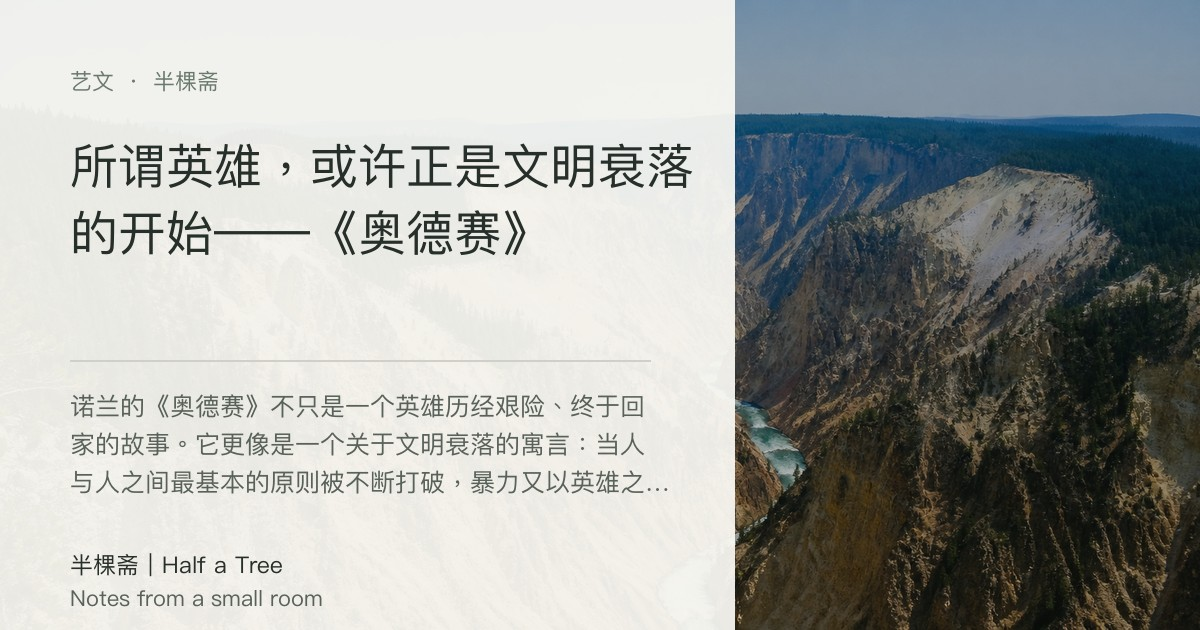
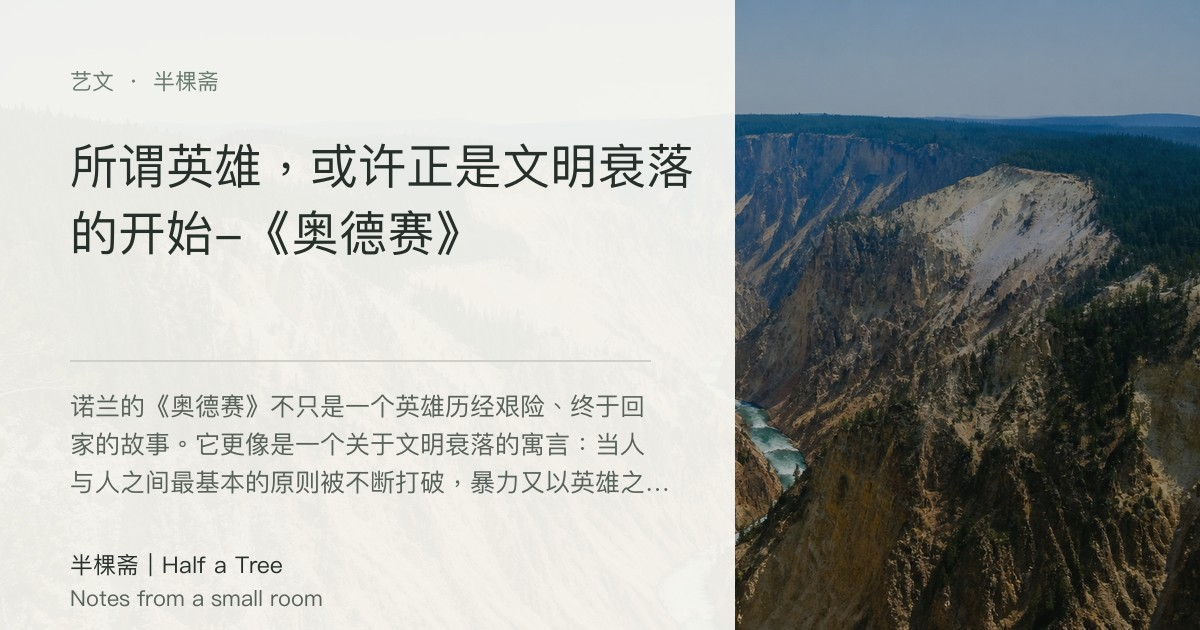
统一奥德赛文章标题短横线

Changed region(s): [[0.185, 0.3317, 0.4625, 0.4222]]

diff --git a/articles/heroes-and-the-decline-of-civilization.html b/articles/heroes-and-the-decline-of-civilization.html
@@ -15,12 +15,12 @@
     <meta property="og:image:width" content="1200" />
     <meta property="og:image:height" content="630" />
     <meta name="twitter:card" content="summary_large_image" />
-    <meta name="twitter:title" content="所谓英雄，或许正是文明衰落的开始——《奥德赛》｜半棵斋" />
+    <meta name="twitter:title" content="所谓英雄，或许正是文明衰落的开始-《奥德赛》｜半棵斋" />
     <meta name="twitter:description" content="诺兰的《奥德赛》不只是一个英雄历经艰险、终于回家的故事。它更像是一个关于文明衰落的寓言：当人与人之间最基本的原则被不断打破，暴力又以英雄之名被传颂，毁灭最终也会被下一代继承。" />
     <meta name="twitter:image" content="https://shenglaiyin42.github.io/Blog_half-a-tree/public/media/share/heroes-and-the-decline-of-civilization.jpg" />
     <!-- 分享卡片元数据结束 -->
     <link rel="canonical" href="https://shenglaiyin42.github.io/Blog_half-a-tree/articles/heroes-and-the-decline-of-civilization.html" />
-    <title>所谓英雄，或许正是文明衰落的开始—《奥德赛》｜半棵斋</title>
+    <title>所谓英雄，或许正是文明衰落的开始-《奥德赛》｜半棵斋</title>
     <link rel="alternate" type="application/rss+xml" title="半棵斋 RSS" href="../rss.xml" />
     <link rel="stylesheet" href="../styles.css?v=moments-poster-v2" />
   </head>
@@ -48,7 +48,7 @@
       <article>
         <header class="article-header">
           <p class="article-meta"><span class="post-section">艺文</span><time datetime="2026-08-16">2026年8月16日</time></p>
-          <h2 class="article-title">所谓英雄，或许正是文明衰落的开始——《奥德赛》</h2>
+          <h2 class="article-title">所谓英雄，或许正是文明衰落的开始-《奥德赛》</h2>
           <div class="article-tags" aria-label="标签"><span># 电影</span></div>
         </header>
         <div class="article-body">

diff --git a/app.js b/app.js
@@ -4,7 +4,7 @@ const posts = [
     url: "./articles/heroes-and-the-decline-of-civilization.html",
     section: "arts",
     sectionName: "艺文",
-    title: "所谓英雄，或许正是文明衰落的开始——《奥德赛》",
+    title: "所谓英雄，或许正是文明衰落的开始-《奥德赛》",
     excerpt: "诺兰的《奥德赛》不只是一个英雄历经艰险、终于回家的故事。它更像是一个关于文明衰落的寓言：当人与人之间最基本的原则被不断打破，暴力又以英雄之名被传颂，毁灭最终也会被下一代继承。",
     date: "2026-08-16",
     tags: ["电影"],

diff --git a/content/posts/heroes-and-the-decline-of-civilization.md b/content/posts/heroes-and-the-decline-of-civilization.md
@@ -1,5 +1,5 @@
 ---
-title: 所谓英雄，或许正是文明衰落的开始——《奥德赛》
+title: 所谓英雄，或许正是文明衰落的开始-《奥德赛》
 slug: heroes-and-the-decline-of-civilization
 section: arts
 date: 2026-08-16
